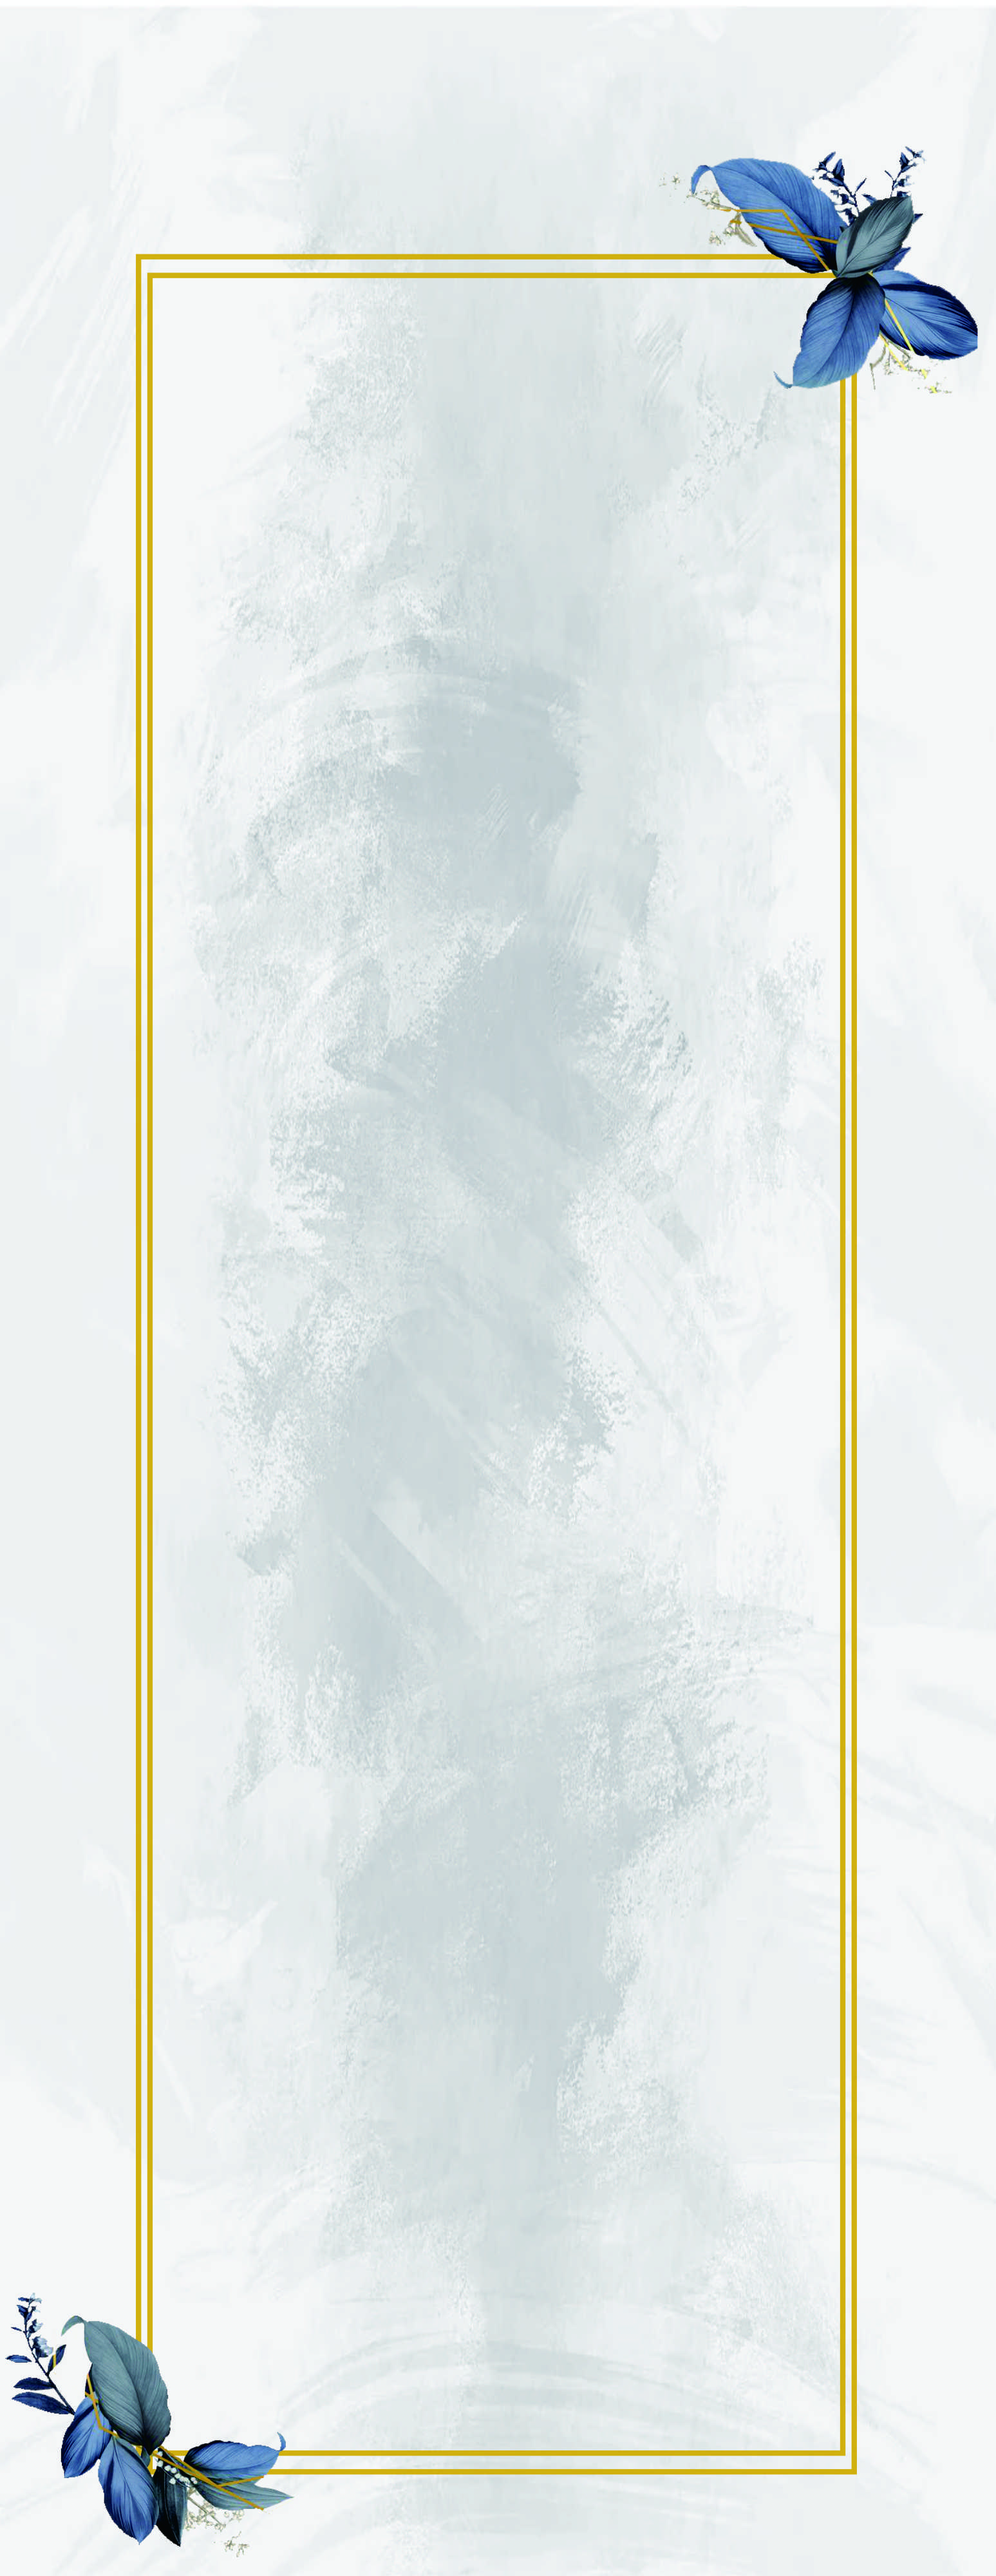
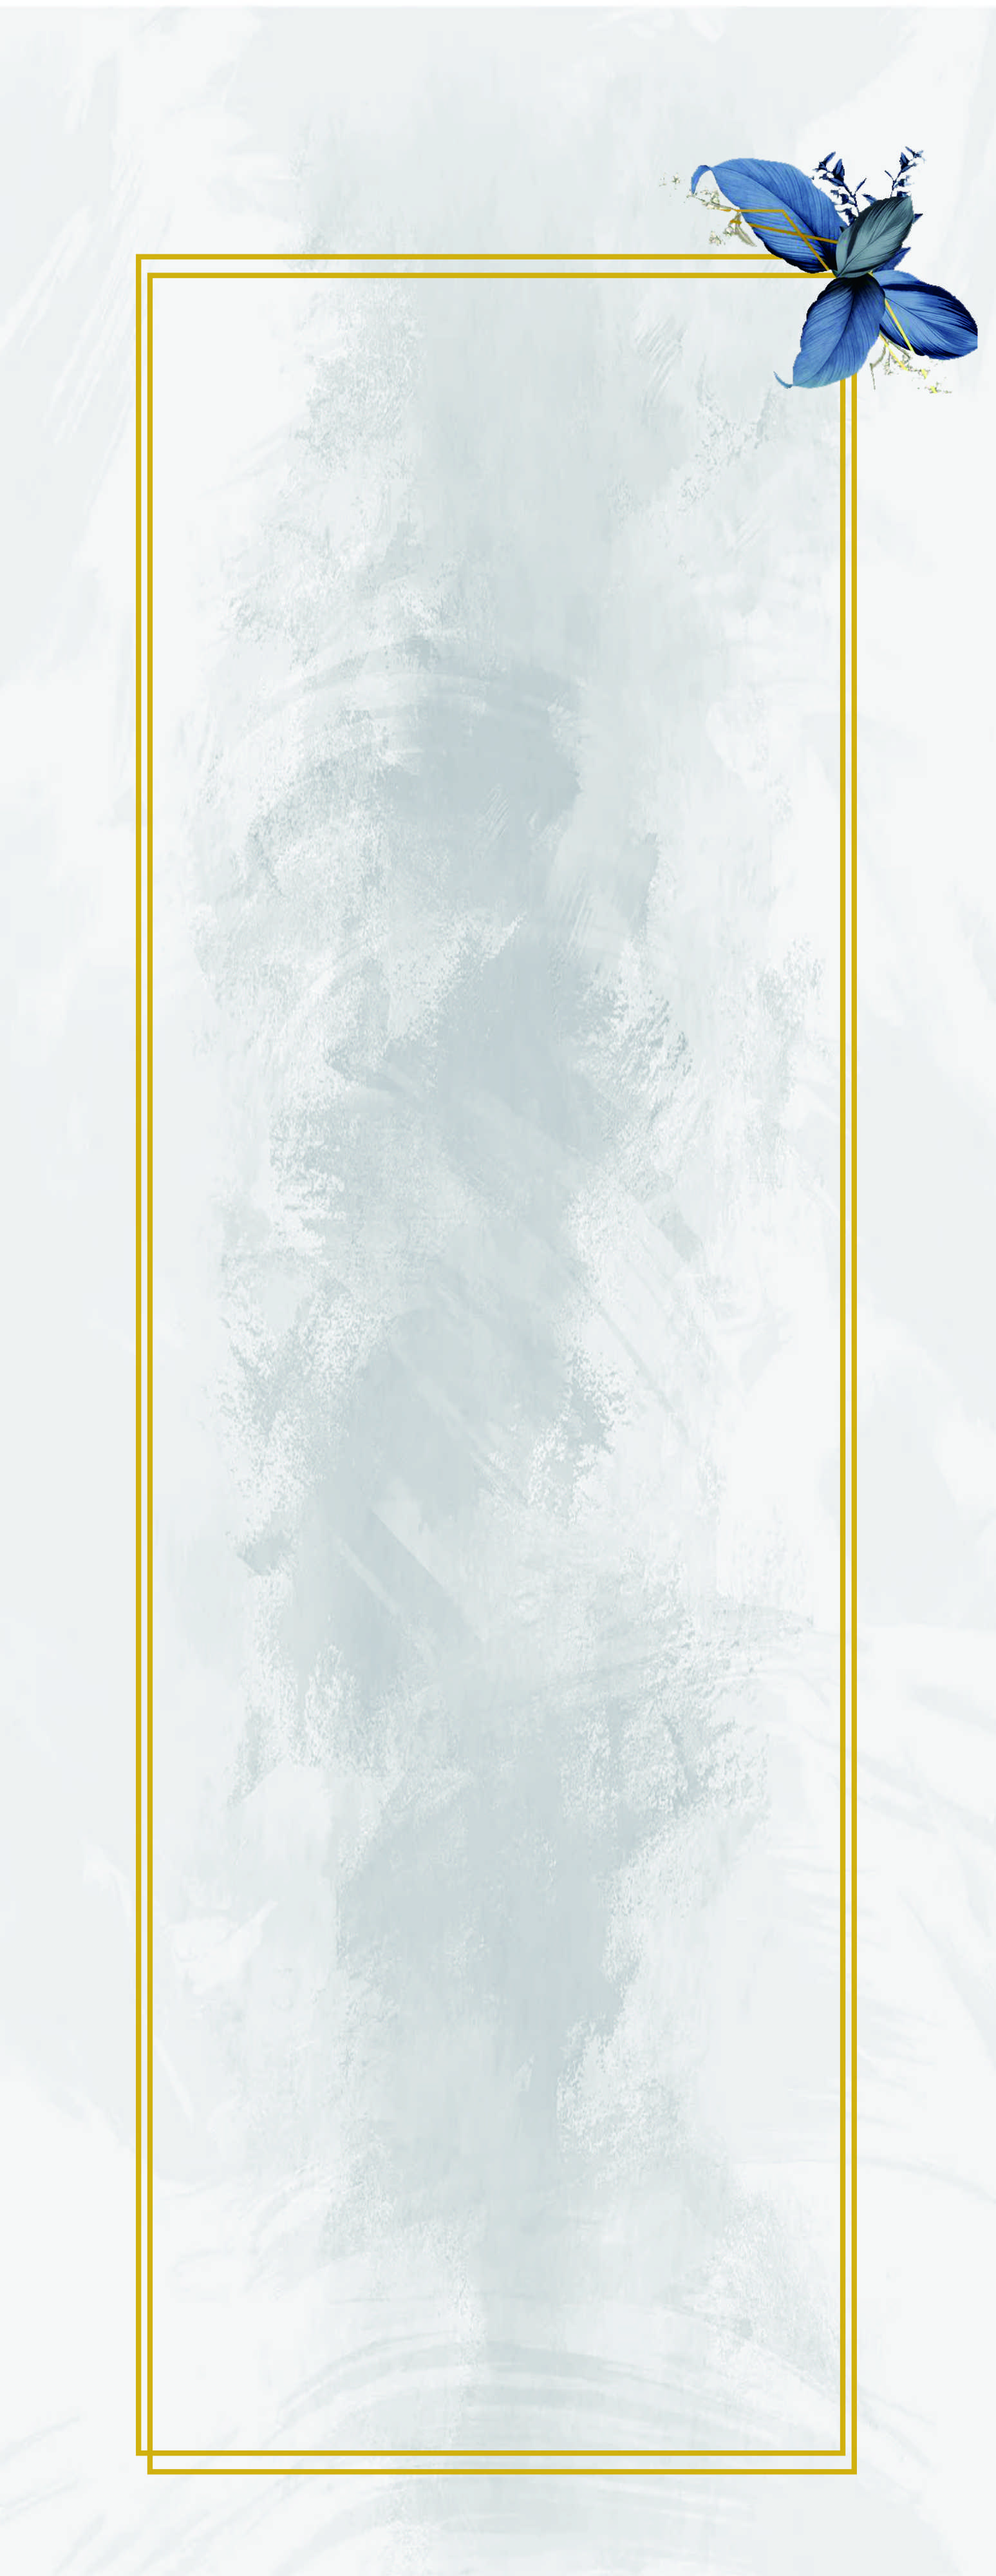
wedding bg

Changed region(s): [[0.0, 0.875, 0.2793, 1.0]]

diff --git a/src/components/HelloSection/index.js b/src/components/HelloSection/index.js
@@ -3,7 +3,7 @@ import { bool } from 'prop-types';
 
 import Bride from '@assets/images/bride3.png';
 import Groom from '@assets/images/groom3.png';
-// import Flower1 from '@assets/images/flower1.png';
+import WeddingBg from '@assets/images/wedding-bg.png';
 
 import { AnimationOnScroll } from 'react-animation-on-scroll';
 import Fade from 'react-reveal//Fade';
@@ -81,12 +81,10 @@ function HelloSection({ isInvitation }) {
                 </p>
               </AnimationOnScroll>
             </div>
-          </div>          
-          {/* <div className="flower-motion-left">
-            <img src={Flower1} width="80%" height="80%" alt="groom" loading="lazy" />
-          </div> */}
+          </div>
         </div>
       </div>
+
       {!isInvitation ? (
         <div id="fh5co-couple" className="fh5co-section-gray" css={styWrapperCouple}>
           <div className="container">

diff --git a/src/components/WeddingSection/index.js b/src/components/WeddingSection/index.js
@@ -7,6 +7,7 @@ import { styWrapper } from './styles';
 import { AnimationOnScroll } from 'react-animation-on-scroll';
 import Fade from 'react-reveal//Fade';
 import Transition1 from '@assets/images/wedding-transition.png';
+import WeddingBg from '@assets/images/wedding-bg.png';
 
 function WeddingSection({ isInvitation }) {
   const renderGuestInfo = () => {
@@ -25,6 +26,10 @@ function WeddingSection({ isInvitation }) {
       <div id="fh5co-event" css={styWrapper}>
         <div className="overlay section--bg-fixed" />
         <div className="container">
+
+          <div className="wedding-bg">
+            <img src={WeddingBg} width="100%" alt="groom" loading="lazy" />
+          </div>
           <AnimationOnScroll animateIn="animate__fadeInUp">
             <div className="row">
               <div className="col-md-8 col-md-offset-2 text-center fh5co-heading">

diff --git a/src/components/WeddingSection/styles.js b/src/components/WeddingSection/styles.js
@@ -10,6 +10,30 @@ export const styWrapper = css`
   min-height: 100vh;
   color: #fff !important;
 
+  
+  .wedding-bg {
+    position: absolute;
+    float: left;
+    background-color: transparent;
+    height: -245%;
+    width:100%;
+    top: -178px;
+    bottom:0px;
+    left:0;
+    
+    @media screen and (max-width: 400px) {
+      top: -48px;
+    }
+  }
+
+  .fh5co-heading {
+    margin-top: 135px;
+    
+    @media screen and (max-width: 400px) {
+      margin-top: 85px;
+    }
+  }
+
   .bismillah {
     color: #fff !important;
     font-size: 16px !important;
@@ -17,7 +41,7 @@ export const styWrapper = css`
   }
 
   .transition-top {
-    
+
   }
 
   .sub-title {

diff --git a/src/components/HelloSection/styles.js b/src/components/HelloSection/styles.js
@@ -18,11 +18,15 @@ export const styWrapperCouple = css`
   justify-content: center;
   align-items: center;
 
-  .flower-motion-left {
-    position: relative;
+  .wedding-bg {
+    position: absolute;
     float: left;
-    width: 200px;
-    height: 200px;
+    background-color: transparent;
+    height: 345%;
+    width:100%;
+    top: 1288px;
+    bottom:0px;
+    left:0;
   }
   
   .flower-motion-right {

diff --git a/src/assets/css/style.css b/src/assets/css/style.css
@@ -1021,7 +1021,7 @@ form label {
 #fh5co-couple,
 #fh5co-gallery,
 .fh5co-section {
-  padding: 3em 0;
+  padding: 10em 0;
   clear: both;
 }
 
